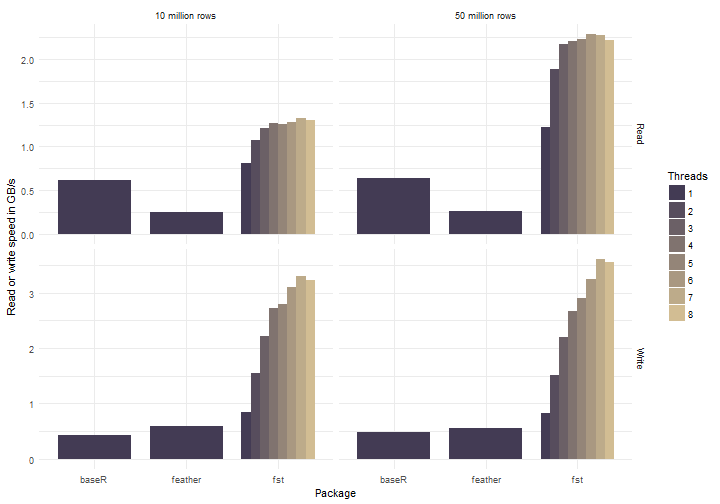
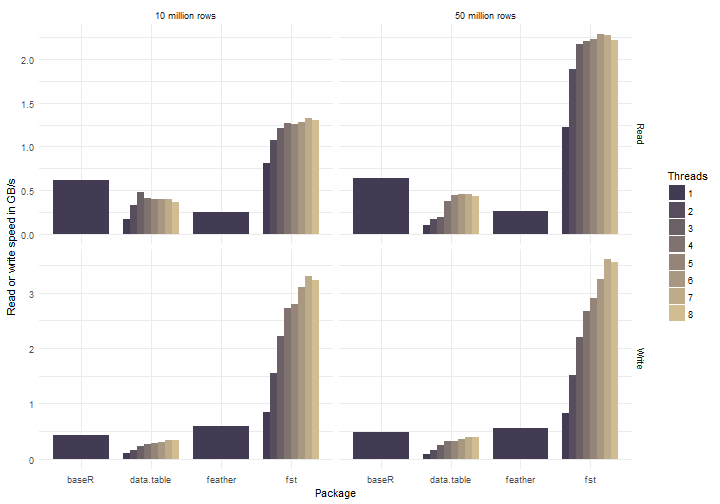
Preview blog

diff --git a/themes/hugo-tranquilpeak-theme/static/js/highlight.pack.js b/themes/hugo-tranquilpeak-theme/static/js/highlight.pack.js
@@ -1,0 +1,2 @@
+/*! highlight.js v9.12.0 | BSD3 License | git.io/hljslicense */
+!function(e){var n="object"==typeof window&&window||"object"==typeof self&&self;"undefined"!=typeof exports?e(exports):n&&(n.hljs=e({}),"function"==typeof define&&define.amd&&define([],function(){return n.hljs}))}(function(e){function n(e){return e.replace(/&/g,"&amp;").replace(/</g,"&lt;").replace(/>/g,"&gt;")}function t(e){return e.nodeName.toLowerCase()}function r(e,n){var t=e&&e.exec(n);return t&&0===t.index}function a(e){return k.test(e)}function i(e){var n,t,r,i,o=e.className+" ";if(o+=e.parentNode?e.parentNode.className:"",t=B.exec(o))return w(t[1])?t[1]:"no-highlight";for(o=o.split(/\s+/),n=0,r=o.length;r>n;n++)if(i=o[n],a(i)||w(i))return i}function o(e){var n,t={},r=Array.prototype.slice.call(arguments,1);for(n in e)t[n]=e[n];return r.forEach(function(e){for(n in e)t[n]=e[n]}),t}function u(e){var n=[];return function r(e,a){for(var i=e.firstChild;i;i=i.nextSibling)3===i.nodeType?a+=i.nodeValue.length:1===i.nodeType&&(n.push({event:"start",offset:a,node:i}),a=r(i,a),t(i).match(/br|hr|img|input/)||n.push({event:"stop",offset:a,node:i}));return a}(e,0),n}function c(e,r,a){function i(){return e.length&&r.length?e[0].offset!==r[0].offset?e[0].offset<r[0].offset?e:r:"start"===r[0].event?e:r:e.length?e:r}function o(e){function r(e){return" "+e.nodeName+'="'+n(e.value).replace('"',"&quot;")+'"'}s+="<"+t(e)+E.map.call(e.attributes,r).join("")+">"}function u(e){s+="</"+t(e)+">"}function c(e){("start"===e.event?o:u)(e.node)}for(var l=0,s="",f=[];e.length||r.length;){var g=i();if(s+=n(a.substring(l,g[0].offset)),l=g[0].offset,g===e){f.reverse().forEach(u);do c(g.splice(0,1)[0]),g=i();while(g===e&&g.length&&g[0].offset===l);f.reverse().forEach(o)}else"start"===g[0].event?f.push(g[0].node):f.pop(),c(g.splice(0,1)[0])}return s+n(a.substr(l))}function l(e){return e.v&&!e.cached_variants&&(e.cached_variants=e.v.map(function(n){return o(e,{v:null},n)})),e.cached_variants||e.eW&&[o(e)]||[e]}function s(e){function n(e){return e&&e.source||e}function t(t,r){return new RegExp(n(t),"m"+(e.cI?"i":"")+(r?"g":""))}function r(a,i){if(!a.compiled){if(a.compiled=!0,a.k=a.k||a.bK,a.k){var o={},u=function(n,t){e.cI&&(t=t.toLowerCase()),t.split(" ").forEach(function(e){var t=e.split("|");o[t[0]]=[n,t[1]?Number(t[1]):1]})};"string"==typeof a.k?u("keyword",a.k):x(a.k).forEach(function(e){u(e,a.k[e])}),a.k=o}a.lR=t(a.l||/\w+/,!0),i&&(a.bK&&(a.b="\\b("+a.bK.split(" ").join("|")+")\\b"),a.b||(a.b=/\B|\b/),a.bR=t(a.b),a.e||a.eW||(a.e=/\B|\b/),a.e&&(a.eR=t(a.e)),a.tE=n(a.e)||"",a.eW&&i.tE&&(a.tE+=(a.e?"|":"")+i.tE)),a.i&&(a.iR=t(a.i)),null==a.r&&(a.r=1),a.c||(a.c=[]),a.c=Array.prototype.concat.apply([],a.c.map(function(e){return l("self"===e?a:e)})),a.c.forEach(function(e){r(e,a)}),a.starts&&r(a.starts,i);var c=a.c.map(function(e){return e.bK?"\\.?("+e.b+")\\.?":e.b}).concat([a.tE,a.i]).map(n).filter(Boolean);a.t=c.length?t(c.join("|"),!0):{exec:function(){return null}}}}r(e)}function f(e,t,a,i){function o(e,n){var t,a;for(t=0,a=n.c.length;a>t;t++)if(r(n.c[t].bR,e))return n.c[t]}function u(e,n){if(r(e.eR,n)){for(;e.endsParent&&e.parent;)e=e.parent;return e}return e.eW?u(e.parent,n):void 0}function c(e,n){return!a&&r(n.iR,e)}function l(e,n){var t=N.cI?n[0].toLowerCase():n[0];return e.k.hasOwnProperty(t)&&e.k[t]}function p(e,n,t,r){var a=r?"":I.classPrefix,i='<span class="'+a,o=t?"":C;return i+=e+'">',i+n+o}function h(){var e,t,r,a;if(!E.k)return n(k);for(a="",t=0,E.lR.lastIndex=0,r=E.lR.exec(k);r;)a+=n(k.substring(t,r.index)),e=l(E,r),e?(B+=e[1],a+=p(e[0],n(r[0]))):a+=n(r[0]),t=E.lR.lastIndex,r=E.lR.exec(k);return a+n(k.substr(t))}function d(){var e="string"==typeof E.sL;if(e&&!y[E.sL])return n(k);var t=e?f(E.sL,k,!0,x[E.sL]):g(k,E.sL.length?E.sL:void 0);return E.r>0&&(B+=t.r),e&&(x[E.sL]=t.top),p(t.language,t.value,!1,!0)}function b(){L+=null!=E.sL?d():h(),k=""}function v(e){L+=e.cN?p(e.cN,"",!0):"",E=Object.create(e,{parent:{value:E}})}function m(e,n){if(k+=e,null==n)return b(),0;var t=o(n,E);if(t)return t.skip?k+=n:(t.eB&&(k+=n),b(),t.rB||t.eB||(k=n)),v(t,n),t.rB?0:n.length;var r=u(E,n);if(r){var a=E;a.skip?k+=n:(a.rE||a.eE||(k+=n),b(),a.eE&&(k=n));do E.cN&&(L+=C),E.skip||(B+=E.r),E=E.parent;while(E!==r.parent);return r.starts&&v(r.starts,""),a.rE?0:n.length}if(c(n,E))throw new Error('Illegal lexeme "'+n+'" for mode "'+(E.cN||"<unnamed>")+'"');return k+=n,n.length||1}var N=w(e);if(!N)throw new Error('Unknown language: "'+e+'"');s(N);var R,E=i||N,x={},L="";for(R=E;R!==N;R=R.parent)R.cN&&(L=p(R.cN,"",!0)+L);var k="",B=0;try{for(var M,j,O=0;;){if(E.t.lastIndex=O,M=E.t.exec(t),!M)break;j=m(t.substring(O,M.index),M[0]),O=M.index+j}for(m(t.substr(O)),R=E;R.parent;R=R.parent)R.cN&&(L+=C);return{r:B,value:L,language:e,top:E}}catch(T){if(T.message&&-1!==T.message.indexOf("Illegal"))return{r:0,value:n(t)};throw T}}function g(e,t){t=t||I.languages||x(y);var r={r:0,value:n(e)},a=r;return t.filter(w).forEach(function(n){var t=f(n,e,!1);t.language=n,t.r>a.r&&(a=t),t.r>r.r&&(a=r,r=t)}),a.language&&(r.second_best=a),r}function p(e){return I.tabReplace||I.useBR?e.replace(M,function(e,n){return I.useBR&&"\n"===e?"<br>":I.tabReplace?n.replace(/\t/g,I.tabReplace):""}):e}function h(e,n,t){var r=n?L[n]:t,a=[e.trim()];return e.match(/\bhljs\b/)||a.push("hljs"),-1===e.indexOf(r)&&a.push(r),a.join(" ").trim()}function d(e){var n,t,r,o,l,s=i(e);a(s)||(I.useBR?(n=document.createElementNS("http://www.w3.org/1999/xhtml","div"),n.innerHTML=e.innerHTML.replace(/\n/g,"").replace(/<br[ \/]*>/g,"\n")):n=e,l=n.textContent,r=s?f(s,l,!0):g(l),t=u(n),t.length&&(o=document.createElementNS("http://www.w3.org/1999/xhtml","div"),o.innerHTML=r.value,r.value=c(t,u(o),l)),r.value=p(r.value),e.innerHTML=r.value,e.className=h(e.className,s,r.language),e.result={language:r.language,re:r.r},r.second_best&&(e.second_best={language:r.second_best.language,re:r.second_best.r}))}function b(e){I=o(I,e)}function v(){if(!v.called){v.called=!0;var e=document.querySelectorAll("pre code");E.forEach.call(e,d)}}function m(){addEventListener("DOMContentLoaded",v,!1),addEventListener("load",v,!1)}function N(n,t){var r=y[n]=t(e);r.aliases&&r.aliases.forEach(function(e){L[e]=n})}function R(){return x(y)}function w(e){return e=(e||"").toLowerCase(),y[e]||y[L[e]]}var E=[],x=Object.keys,y={},L={},k=/^(no-?highlight|plain|text)$/i,B=/\blang(?:uage)?-([\w-]+)\b/i,M=/((^(<[^>]+>|\t|)+|(?:\n)))/gm,C="</span>",I={classPrefix:"hljs-",tabReplace:null,useBR:!1,languages:void 0};return e.highlight=f,e.highlightAuto=g,e.fixMarkup=p,e.highlightBlock=d,e.configure=b,e.initHighlighting=v,e.initHighlightingOnLoad=m,e.registerLanguage=N,e.listLanguages=R,e.getLanguage=w,e.inherit=o,e.IR="[a-zA-Z]\\w*",e.UIR="[a-zA-Z_]\\w*",e.NR="\\b\\d+(\\.\\d+)?",e.CNR="(-?)(\\b0[xX][a-fA-F0-9]+|(\\b\\d+(\\.\\d*)?|\\.\\d+)([eE][-+]?\\d+)?)",e.BNR="\\b(0b[01]+)",e.RSR="!|!=|!==|%|%=|&|&&|&=|\\*|\\*=|\\+|\\+=|,|-|-=|/=|/|:|;|<<|<<=|<=|<|===|==|=|>>>=|>>=|>=|>>>|>>|>|\\?|\\[|\\{|\\(|\\^|\\^=|\\||\\|=|\\|\\||~",e.BE={b:"\\\\[\\s\\S]",r:0},e.ASM={cN:"string",b:"'",e:"'",i:"\\n",c:[e.BE]},e.QSM={cN:"string",b:'"',e:'"',i:"\\n",c:[e.BE]},e.PWM={b:/\b(a|an|the|are|I'm|isn't|don't|doesn't|won't|but|just|should|pretty|simply|enough|gonna|going|wtf|so|such|will|you|your|they|like|more)\b/},e.C=function(n,t,r){var a=e.inherit({cN:"comment",b:n,e:t,c:[]},r||{});return a.c.push(e.PWM),a.c.push({cN:"doctag",b:"(?:TODO|FIXME|NOTE|BUG|XXX):",r:0}),a},e.CLCM=e.C("//","$"),e.CBCM=e.C("/\\*","\\*/"),e.HCM=e.C("#","$"),e.NM={cN:"number",b:e.NR,r:0},e.CNM={cN:"number",b:e.CNR,r:0},e.BNM={cN:"number",b:e.BNR,r:0},e.CSSNM={cN:"number",b:e.NR+"(%|em|ex|ch|rem|vw|vh|vmin|vmax|cm|mm|in|pt|pc|px|deg|grad|rad|turn|s|ms|Hz|kHz|dpi|dpcm|dppx)?",r:0},e.RM={cN:"regexp",b:/\//,e:/\/[gimuy]*/,i:/\n/,c:[e.BE,{b:/\[/,e:/\]/,r:0,c:[e.BE]}]},e.TM={cN:"title",b:e.IR,r:0},e.UTM={cN:"title",b:e.UIR,r:0},e.METHOD_GUARD={b:"\\.\\s*"+e.UIR,r:0},e});hljs.registerLanguage("ruby",function(e){var b="[a-zA-Z_]\\w*[!?=]?|[-+~]\\@|<<|>>|=~|===?|<=>|[<>]=?|\\*\\*|[-/+%^&*~`|]|\\[\\]=?",r={keyword:"and then defined module in return redo if BEGIN retry end for self when next until do begin unless END rescue else break undef not super class case require yield alias while ensure elsif or include attr_reader attr_writer attr_accessor",literal:"true false nil"},c={cN:"doctag",b:"@[A-Za-z]+"},a={b:"#<",e:">"},s=[e.C("#","$",{c:[c]}),e.C("^\\=begin","^\\=end",{c:[c],r:10}),e.C("^__END__","\\n$")],n={cN:"subst",b:"#\\{",e:"}",k:r},t={cN:"string",c:[e.BE,n],v:[{b:/'/,e:/'/},{b:/"/,e:/"/},{b:/`/,e:/`/},{b:"%[qQwWx]?\\(",e:"\\)"},{b:"%[qQwWx]?\\[",e:"\\]"},{b:"%[qQwWx]?{",e:"}"},{b:"%[qQwWx]?<",e:">"},{b:"%[qQwWx]?/",e:"/"},{b:"%[qQwWx]?%",e:"%"},{b:"%[qQwWx]?-",e:"-"},{b:"%[qQwWx]?\\|",e:"\\|"},{b:/\B\?(\\\d{1,3}|\\x[A-Fa-f0-9]{1,2}|\\u[A-Fa-f0-9]{4}|\\?\S)\b/},{b:/<<(-?)\w+$/,e:/^\s*\w+$/}]},i={cN:"params",b:"\\(",e:"\\)",endsParent:!0,k:r},d=[t,a,{cN:"class",bK:"class module",e:"$|;",i:/=/,c:[e.inherit(e.TM,{b:"[A-Za-z_]\\w*(::\\w+)*(\\?|\\!)?"}),{b:"<\\s*",c:[{b:"("+e.IR+"::)?"+e.IR}]}].concat(s)},{cN:"function",bK:"def",e:"$|;",c:[e.inherit(e.TM,{b:b}),i].concat(s)},{b:e.IR+"::"},{cN:"symbol",b:e.UIR+"(\\!|\\?)?:",r:0},{cN:"symbol",b:":(?!\\s)",c:[t,{b:b}],r:0},{cN:"number",b:"(\\b0[0-7_]+)|(\\b0x[0-9a-fA-F_]+)|(\\b[1-9][0-9_]*(\\.[0-9_]+)?)|[0_]\\b",r:0},{b:"(\\$\\W)|((\\$|\\@\\@?)(\\w+))"},{cN:"params",b:/\|/,e:/\|/,k:r},{b:"("+e.RSR+"|unless)\\s*",k:"unless",c:[a,{cN:"regexp",c:[e.BE,n],i:/\n/,v:[{b:"/",e:"/[a-z]*"},{b:"%r{",e:"}[a-z]*"},{b:"%r\\(",e:"\\)[a-z]*"},{b:"%r!",e:"![a-z]*"},{b:"%r\\[",e:"\\][a-z]*"}]}].concat(s),r:0}].concat(s);n.c=d,i.c=d;var l="[>?]>",o="[\\w#]+\\(\\w+\\):\\d+:\\d+>",u="(\\w+-)?\\d+\\.\\d+\\.\\d(p\\d+)?[^>]+>",w=[{b:/^\s*=>/,starts:{e:"$",c:d}},{cN:"meta",b:"^("+l+"|"+o+"|"+u+")",starts:{e:"$",c:d}}];return{aliases:["rb","gemspec","podspec","thor","irb"],k:r,i:/\/\*/,c:s.concat(w).concat(d)}});hljs.registerLanguage("yaml",function(e){var b="true false yes no null",a="^[ \\-]*",r="[a-zA-Z_][\\w\\-]*",t={cN:"attr",v:[{b:a+r+":"},{b:a+'"'+r+'":'},{b:a+"'"+r+"':"}]},c={cN:"template-variable",v:[{b:"{{",e:"}}"},{b:"%{",e:"}"}]},l={cN:"string",r:0,v:[{b:/'/,e:/'/},{b:/"/,e:/"/},{b:/\S+/}],c:[e.BE,c]};return{cI:!0,aliases:["yml","YAML","yaml"],c:[t,{cN:"meta",b:"^---s*$",r:10},{cN:"string",b:"[\\|>] *$",rE:!0,c:l.c,e:t.v[0].b},{b:"<%[%=-]?",e:"[%-]?%>",sL:"ruby",eB:!0,eE:!0,r:0},{cN:"type",b:"!!"+e.UIR},{cN:"meta",b:"&"+e.UIR+"$"},{cN:"meta",b:"\\*"+e.UIR+"$"},{cN:"bullet",b:"^ *-",r:0},e.HCM,{bK:b,k:{literal:b}},e.CNM,l]}});hljs.registerLanguage("python",function(e){var r={keyword:"and elif is global as in if from raise for except finally print import pass return exec else break not with class assert yield try while continue del or def lambda async await nonlocal|10 None True False",built_in:"Ellipsis NotImplemented"},b={cN:"meta",b:/^(>>>|\.\.\.) /},c={cN:"subst",b:/\{/,e:/\}/,k:r,i:/#/},a={cN:"string",c:[e.BE],v:[{b:/(u|b)?r?'''/,e:/'''/,c:[b],r:10},{b:/(u|b)?r?"""/,e:/"""/,c:[b],r:10},{b:/(fr|rf|f)'''/,e:/'''/,c:[b,c]},{b:/(fr|rf|f)"""/,e:/"""/,c:[b,c]},{b:/(u|r|ur)'/,e:/'/,r:10},{b:/(u|r|ur)"/,e:/"/,r:10},{b:/(b|br)'/,e:/'/},{b:/(b|br)"/,e:/"/},{b:/(fr|rf|f)'/,e:/'/,c:[c]},{b:/(fr|rf|f)"/,e:/"/,c:[c]},e.ASM,e.QSM]},s={cN:"number",r:0,v:[{b:e.BNR+"[lLjJ]?"},{b:"\\b(0o[0-7]+)[lLjJ]?"},{b:e.CNR+"[lLjJ]?"}]},i={cN:"params",b:/\(/,e:/\)/,c:["self",b,s,a]};return c.c=[a,s,b],{aliases:["py","gyp"],k:r,i:/(<\/|->|\?)|=>/,c:[b,s,a,e.HCM,{v:[{cN:"function",bK:"def"},{cN:"class",bK:"class"}],e:/:/,i:/[${=;\n,]/,c:[e.UTM,i,{b:/->/,eW:!0,k:"None"}]},{cN:"meta",b:/^[\t ]*@/,e:/$/},{b:/\b(print|exec)\(/}]}});hljs.registerLanguage("cpp",function(t){var e={cN:"keyword",b:"\\b[a-z\\d_]*_t\\b"},r={cN:"string",v:[{b:'(u8?|U)?L?"',e:'"',i:"\\n",c:[t.BE]},{b:'(u8?|U)?R"',e:'"',c:[t.BE]},{b:"'\\\\?.",e:"'",i:"."}]},s={cN:"number",v:[{b:"\\b(0b[01']+)"},{b:"(-?)\\b([\\d']+(\\.[\\d']*)?|\\.[\\d']+)(u|U|l|L|ul|UL|f|F|b|B)"},{b:"(-?)(\\b0[xX][a-fA-F0-9']+|(\\b[\\d']+(\\.[\\d']*)?|\\.[\\d']+)([eE][-+]?[\\d']+)?)"}],r:0},i={cN:"meta",b:/#\s*[a-z]+\b/,e:/$/,k:{"meta-keyword":"if else elif endif define undef warning error line pragma ifdef ifndef include"},c:[{b:/\\\n/,r:0},t.inherit(r,{cN:"meta-string"}),{cN:"meta-string",b:/<[^\n>]*>/,e:/$/,i:"\\n"},t.CLCM,t.CBCM]},a=t.IR+"\\s*\\(",c={keyword:"int float while private char catch import module export virtual operator sizeof dynamic_cast|10 typedef const_cast|10 const for static_cast|10 union namespace unsigned long volatile static protected bool template mutable if public friend do goto auto void enum else break extern using asm case typeid short reinterpret_cast|10 default double register explicit signed typename try this switch continue inline delete alignof constexpr decltype noexcept static_assert thread_local restrict _Bool complex _Complex _Imaginary atomic_bool atomic_char atomic_schar atomic_uchar atomic_short atomic_ushort atomic_int atomic_uint atomic_long atomic_ulong atomic_llong atomic_ullong new throw return and or not",built_in:"std string cin cout cerr clog stdin stdout stderr stringstream istringstream ostringstream auto_ptr deque list queue stack vector map set bitset multiset multimap unordered_set unordered_map unordered_multiset unordered_multimap array shared_ptr abort abs acos asin atan2 atan calloc ceil cosh cos exit exp fabs floor fmod fprintf fputs free frexp fscanf isalnum isalpha iscntrl isdigit isgraph islower isprint ispunct isspace isupper isxdigit tolower toupper labs ldexp log10 log malloc realloc memchr memcmp memcpy memset modf pow printf putchar puts scanf sinh sin snprintf sprintf sqrt sscanf strcat strchr strcmp strcpy strcspn strlen strncat strncmp strncpy strpbrk strrchr strspn strstr tanh tan vfprintf vprintf vsprintf endl initializer_list unique_ptr",literal:"true false nullptr NULL"},n=[e,t.CLCM,t.CBCM,s,r];return{aliases:["c","cc","h","c++","h++","hpp"],k:c,i:"</",c:n.concat([i,{b:"\\b(deque|list|queue|stack|vector|map|set|bitset|multiset|multimap|unordered_map|unordered_set|unordered_multiset|unordered_multimap|array)\\s*<",e:">",k:c,c:["self",e]},{b:t.IR+"::",k:c},{v:[{b:/=/,e:/;/},{b:/\(/,e:/\)/},{bK:"new throw return else",e:/;/}],k:c,c:n.concat([{b:/\(/,e:/\)/,k:c,c:n.concat(["self"]),r:0}]),r:0},{cN:"function",b:"("+t.IR+"[\\*&\\s]+)+"+a,rB:!0,e:/[{;=]/,eE:!0,k:c,i:/[^\w\s\*&]/,c:[{b:a,rB:!0,c:[t.TM],r:0},{cN:"params",b:/\(/,e:/\)/,k:c,r:0,c:[t.CLCM,t.CBCM,r,s,e]},t.CLCM,t.CBCM,i]},{cN:"class",bK:"class struct",e:/[{;:]/,c:[{b:/</,e:/>/,c:["self"]},t.TM]}]),exports:{preprocessor:i,strings:r,k:c}}});hljs.registerLanguage("r",function(e){var r="([a-zA-Z]|\\.[a-zA-Z.])[a-zA-Z0-9._]*";return{c:[e.HCM,{b:r,l:r,k:{keyword:"function if in break next repeat else for return switch while try tryCatch stop warning require library attach detach source setMethod setGeneric setGroupGeneric setClass ...",literal:"NULL NA TRUE FALSE T F Inf NaN NA_integer_|10 NA_real_|10 NA_character_|10 NA_complex_|10"},r:0},{cN:"number",b:"0[xX][0-9a-fA-F]+[Li]?\\b",r:0},{cN:"number",b:"\\d+(?:[eE][+\\-]?\\d*)?L\\b",r:0},{cN:"number",b:"\\d+\\.(?!\\d)(?:i\\b)?",r:0},{cN:"number",b:"\\d+(?:\\.\\d*)?(?:[eE][+\\-]?\\d*)?i?\\b",r:0},{cN:"number",b:"\\.\\d+(?:[eE][+\\-]?\\d*)?i?\\b",r:0},{b:"`",e:"`",r:0},{cN:"string",c:[e.BE],v:[{b:'"',e:'"'},{b:"'",e:"'"}]}]}});hljs.registerLanguage("bash",function(e){var t={cN:"variable",v:[{b:/\$[\w\d#@][\w\d_]*/},{b:/\$\{(.*?)}/}]},s={cN:"string",b:/"/,e:/"/,c:[e.BE,t,{cN:"variable",b:/\$\(/,e:/\)/,c:[e.BE]}]},a={cN:"string",b:/'/,e:/'/};return{aliases:["sh","zsh"],l:/\b-?[a-z\._]+\b/,k:{keyword:"if then else elif fi for while in do done case esac function",literal:"true false",built_in:"break cd continue eval exec exit export getopts hash pwd readonly return shift test times trap umask unset alias bind builtin caller command declare echo enable help let local logout mapfile printf read readarray source type typeset ulimit unalias set shopt autoload bg bindkey bye cap chdir clone comparguments compcall compctl compdescribe compfiles compgroups compquote comptags comptry compvalues dirs disable disown echotc echoti emulate fc fg float functions getcap getln history integer jobs kill limit log noglob popd print pushd pushln rehash sched setcap setopt stat suspend ttyctl unfunction unhash unlimit unsetopt vared wait whence where which zcompile zformat zftp zle zmodload zparseopts zprof zpty zregexparse zsocket zstyle ztcp",_:"-ne -eq -lt -gt -f -d -e -s -l -a"},c:[{cN:"meta",b:/^#![^\n]+sh\s*$/,r:10},{cN:"function",b:/\w[\w\d_]*\s*\(\s*\)\s*\{/,rB:!0,c:[e.inherit(e.TM,{b:/\w[\w\d_]*/})],r:0},e.HCM,s,a,t]}});

diff --git a/themes/hugo-tranquilpeak-theme/static/css/github-gist.css b/themes/hugo-tranquilpeak-theme/static/css/github-gist.css
@@ -1,0 +1,71 @@
+/**
+ * GitHub Gist Theme
+ * Author : Louis Barranqueiro - https://github.com/LouisBarranqueiro
+ */
+
+.hljs {
+  display: block;
+  background: white;
+  padding: 0.5em;
+  color: #333333;
+  overflow-x: auto;
+}
+
+.hljs-comment,
+.hljs-meta {
+  color: #969896;
+}
+
+.hljs-string,
+.hljs-variable,
+.hljs-template-variable,
+.hljs-strong,
+.hljs-emphasis,
+.hljs-quote {
+  color: #df5000;
+}
+
+.hljs-keyword,
+.hljs-selector-tag,
+.hljs-type {
+  color: #a71d5d;
+}
+
+.hljs-literal,
+.hljs-symbol,
+.hljs-bullet,
+.hljs-attribute {
+  color: #0086b3;
+}
+
+.hljs-section,
+.hljs-name {
+  color: #63a35c;
+}
+
+.hljs-tag {
+  color: #333333;
+}
+
+.hljs-title,
+.hljs-attr,
+.hljs-selector-id,
+.hljs-selector-class,
+.hljs-selector-attr,
+.hljs-selector-pseudo {
+  color: #795da3;
+}
+
+.hljs-addition {
+  color: #55a532;
+  background-color: #eaffea;
+}
+
+.hljs-deletion {
+  color: #bd2c00;
+  background-color: #ffecec;
+}
+
+.hljs-link {
+  text-decoration: underline;
+}

diff --git a/content/post/fst_0.8.0/fst_0.8.0.md b/content/post/fst_0.8.0/fst_0.8.0.md
@@ -1,7 +1,7 @@
 ---
 title: "Lightning fast serialization of datasets using the fst package"
 author: "Mark Klik"
-date: '2017-12-16'
+date: '2017-12-12'
 coverImage: //d1u9biwaxjngwg.cloudfront.net/welcome-to-tranquilpeak/city.jpg
 editor_options:
   chunk_output_type: console
@@ -28,8 +28,7 @@ Version 0.8.0 of R's _fst_ package has been released to CRAN. The package is now
 
 <!--more-->
 
-This post covers some of the enhancements that have been made to _fst_ in the latest release and measures the performance against the serialization methods offered by packages _feather_ and by _base R_ itself. A parallel is drawn with the multi-threading enhancements recently added to _data.table_'s methods _fread_ and _fwrite_ for working with  _csv_ files. Also, some words on how and when to best use the _fst_ binary format to benefit your workflow and speed up your calculations (and when not).
-
+This post covers some of the enhancements that have been made to _fst_ and introduces the new in-memory compression and hashing features. Some benchmarks are shown comparing performance against data frame serialization methods offered by packages _data.table_, _feather_ and by _base R_ itself.
 
 <!-- toc -->
 
@@ -39,30 +38,29 @@ For a few years now, solid state disks (SSD's) have been getting larger in capac
 
 The _fst_ package aims to provide a solution for storing data frames on modern SSD's at the highest possible speed. It uses multiple threads and compression to achieve speeds that can top even the fastest consumer SSD's that are currently available. At the same time, the _fst_ file format was designed as a random access format from the ground up. This offers a lot of flexibility and allows reading subsets of data frames (both columns and rows) at high speeds.
 
-Below you can see just how fast _fst_ is. The benchmark was performed on a laptop with a mid range CPU (i7 4710HQ @2.5 GHz) and a reasonably fast (NVME) SSD (M.2 Samsung SM951). The datasets used for measurement were generated on the fly and consists of various column types (as defined below). The number of threads (were appropriate) was set to 8.
-
-<br>
+Below you can see just how fast _fst_ is. The benchmark was performed on a laptop with a mid range CPU (i7 4710HQ @2.5 GHz) and a reasonably fast SSD (M.2 Samsung SM951). The datasets used for measurement were generated on the fly and consist of various column types (the dataset is defined below). The number of threads (were appropriate) was set to 8.
 
 
-|Method        |Format  |Time (sec) |Size (MB) |File Size (MB) |Speed (MB/s) |N       |
-|:-------------|:-------|:----------|:---------|:--------------|:------------|:-------|
-|readRDS       |bin     |1.57       |1000      |1000           |633          |112     |
-|saveRDS       |bin     |2.04       |1000      |1000           |489          |112     |
-|read_feather  |bin     |3.95       |1000      |812            |253          |112     |
-|write_feather |bin     |1.82       |1000      |812            |549          |112     |
-|**read_fst**  |**bin** |**0.45**   |**1000**  |**303**        |**2216**     |**142** |
-|**write_fst** |**bin** |**0.28**   |**1000**  |**303**        |**3559**     |**142** |
-_Table 1: read and write performance of fst, feather and baseR binary formats_
+|Method        |Format  |Time (ms) |Size (MB) |File Size (MB) |Speed (MB/s) |N       |
+|:-------------|:-------|:---------|:---------|:--------------|:------------|:-------|
+|readRDS       |bin     |1577      |1000      |1000           |633          |112     |
+|saveRDS       |bin     |2042      |1000      |1000           |489          |112     |
+|fread         |csv     |2800      |1200      |1038           |428          |117     |
+|fwrite        |csv     |2537      |1000      |1038           |394          |117     |
+|read_feather  |bin     |3950      |1000      |812            |253          |112     |
+|write_feather |bin     |1820      |1000      |812            |549          |112     |
+|**read_fst**  |**bin** |**451**   |**1000**  |**303**        |**2216**     |**142** |
+|**write_fst** |**bin** |**280**   |**1000**  |**303**        |**3559**     |**142** |
 
-The table compares method _write\_fst_ to it's counterparts _write\_feather_ and _saveRDS_. Method _read\_fst_ is compared to it's counterparts _read\_feather_ and _readRDS_. For _saveRDS_, the uncompressed mode was selected because the compressed mode is very slow (a few MB/s only).
-
-As can be seen, a write speed of more than 3.5 GB/s was measured for _write\_fst_. That speed is even higher than the speed reported in the drive's specifications! 
+In the table, method _write\_fst_ is compared to it's counterparts _write\_feather_,  _fwrite_ and _saveRDS_. Method _read\_fst_ is compared to it's counterparts _read\_feather_, _fread_ and _readRDS_. For _saveRDS_, the uncompressed mode was selected because the compressed mode is very slow (a few MB/s only).
 
 After introducing some of the basic features of _fst_, we will get back to these benchmarks and take a look at how the package uses a combination of multi-threading and compression to effectively boost the performance of data frame serialization.
 
+
 # Put _fst_ to work
 
-The package interface for serialization of data frames is quite straightforward. To write a data frame to disk:
+The package interface for serialization of data frames is quite straightforward.
+To write a data frame to disk:
 
 
 ```r
@@ -93,13 +91,13 @@ This reads rows 1000 to 2000 from columns _A_ and _B_ without actually touching 
 
 This 'on-disk subsetting' takes less memory, because memory is only allocated for columns and rows that are actually read from disk. So even with a _fst_ file that is much larger than the amount of RAM in your computer, you can still read a subset without running out of memory!
 
-The graph below depicts the relation between the read time and the amount of rows selected from a 50 million row _fst_ file. As you can see, the average read time grows with the amount of rows selected. Reading all 50 million rows takes around 0.45 seconds, the value reported in the table in the introduction.
+The graph below depicts the relation between the read time and the amount of rows selected from a 50 million row _fst_ file. As you can see, the average read time grows with the amount of rows selected. Reading all 50 million rows takes around 450 ms, comparable to the value reported in the table in the introduction (451 ms).
 
 <img src="/img/fst_0.8.0/img/fig-unnamed-chunk-8-1.png" title="plot of chunk unnamed-chunk-8" alt="plot of chunk unnamed-chunk-8" width="50%" />
 
 # Some basic speed measurements
 
-The read and write speed of _fst_ depends on the compression setting and the number of threads used. To get an idea about these dependencies we generate a dataset containing various column types and do some speed measurements:
+The read and write speed of _fst_ depends on the compression setting and the number of threads used. To get an idea about these dependencies we do some measurements on our previously used dataset that can be generated with:
 
 
 ```r
@@ -122,7 +120,7 @@ df <-
   )
 ```
 
-This dataset was also used to obtain the benchmark results reported above. To get accurate timings for writing to disk we use the _microbenchmark_ package
+To get accurate timings for writing the frame to disk we use the _microbenchmark_ package
 
 
 
@@ -145,7 +143,7 @@ as.numeric(object.size(df)) / write_speed$time
 ## [1] 3.55976
 ```
 
-So how can the measured write speed (about 3.5 GB/s) be so much higher than the maximum write speed of the SSD used (about 1.2 GB/s)? The explanation is that the actual amount of bytes that where pushed to the SSD is lower than the in-memory size of the data frame (and **less data == more speed**):
+the write speed is about 3.5 GB/s. That's much higher than the maximum write speed of the SSD in my laptop, which is about 1.1 GB/s according to the specs. Following the compression argument above, the explanation is that the actual amount of bytes that where pushed to the SSD is lower than the in-memory size of the data frame (and **less data == more speed**):
 
 
 ```r
@@ -154,7 +152,7 @@ as.numeric(file.size("sampleset.fst") / object.size(df))
 ```
 
 ```
-## [1] 0.3080469
+## [1] 0.3021018
 ```
 
 So the file size is about 30 percent of the original data frame size. This reduced file size is the result of using a default compression setting of 50 percent. Apart from the resulting speed increase, smaller files are also attractive from a storage point of view.
@@ -171,28 +169,25 @@ threads_fst(8)  # allow fst to use 8 threads
 
 With more threads _fst_ can do more background processing such as compression. Obviously, setting more threads than there are (logical) cores available in your computer won't help you (in most cases).
 
-The graph below shows measurements of the read- and write speeds for various 'thread settings' and number of rows. Sample sizes of 10 million and 50 million rows were used.
+The graph below shows measurements of the read- and write speeds for various 'thread settings' and number of table rows. Sample sizes of 10 million and 50 million rows were used.
 
 ![plot of chunk unnamed-chunk-15](/img/fst_0.8.0/img/fig-unnamed-chunk-15-1.png)
 
 
 
-The effects of multi-threading are quite obvious and _fst_ does well in both reading and writing (note that the bar corresponding to _Threads == 1_ is basically _fst_ before version 0.8.0). A top write speed of 3.6 GB/s was measured using 7 threads. My laptop only has 4 physical cores, but increasing beyond 4 threads still increases performance (apparently hyperthreading does work in some cases :-)).
+The effects of multi-threading are quite obvious and _fst_ does well in both reading and writing (note that the single threaded bar is basically _fst_ before version 0.8.0). A top write speed of 3.6 GB/s was measured using 7 threads. My laptop only has 4 physical cores, but increasing beyond 4 threads still increases performance (apparently hyperthreading does work :-)).
 
 > The measured read speeds are lower than the write speeds although the SSD has a higher read throughput according to the specifications. This probably means that there is room for some more improvements on the read speeds when the code is further optimized.
 
-The way _fst_ uses multiple threads to do background processing is similar to how the _data.table_ packages employs multiple threads to parse and write _csv_ files:
-
-
-```
-## Error: <text>:4:1: unexpected '['
-## 3: 
-## 4: [
-##    ^
-```
-
-
 Next to _fst_ there is another clear winner in this graph, and that is the _data.table_ package with it's methods _fwrite_ and _fread_. It stands out because the _csv_ file  format is not a binary format but a human-readable text format! Normally, binary formats would be much faster than the _csv_ format, because _csv_ takes more space on disk, is row based, uncompressed and needs to be parsed into a computer-native format to have any meaning. So any serializer that's working on _csv_ has an enormous disadvantage as compared to binary formats. Yet, the results show that _data.table_ is on par with binary formats and when more threads are used, it can even be faster. This is all due to the excellent work of the people working on the _data.table_ package. They recently created parallel implementations of _fwrite_ and _fread_ and they are very fast, an impressive piece of work!
+
+## Character columns
+
+Perhaps you've noticed that there is no _character_ column in the test data (only a factor column). That's because serialization of the character column type is still done single-threaded in _fst_. 
+
+![plot of chunk unnamed-chunk-17](/img/fst_0.8.0/img/fig-unnamed-chunk-17-1.png)
+
+With a maximum write speed of 232 (and read even slower), the current low speed of character columns would have completely dominated the benchmark. Excluding is a little unfair to _data.table_ however, because _character_ columns are just the type of columns where _data.table_ shines brightest (hopefully including this graph will make up for that a little :-)). Obviously, a parallel version of the _character_ serialization code is high on _fst_'s feature list.
 
 # How compression helps to increase performance
 
